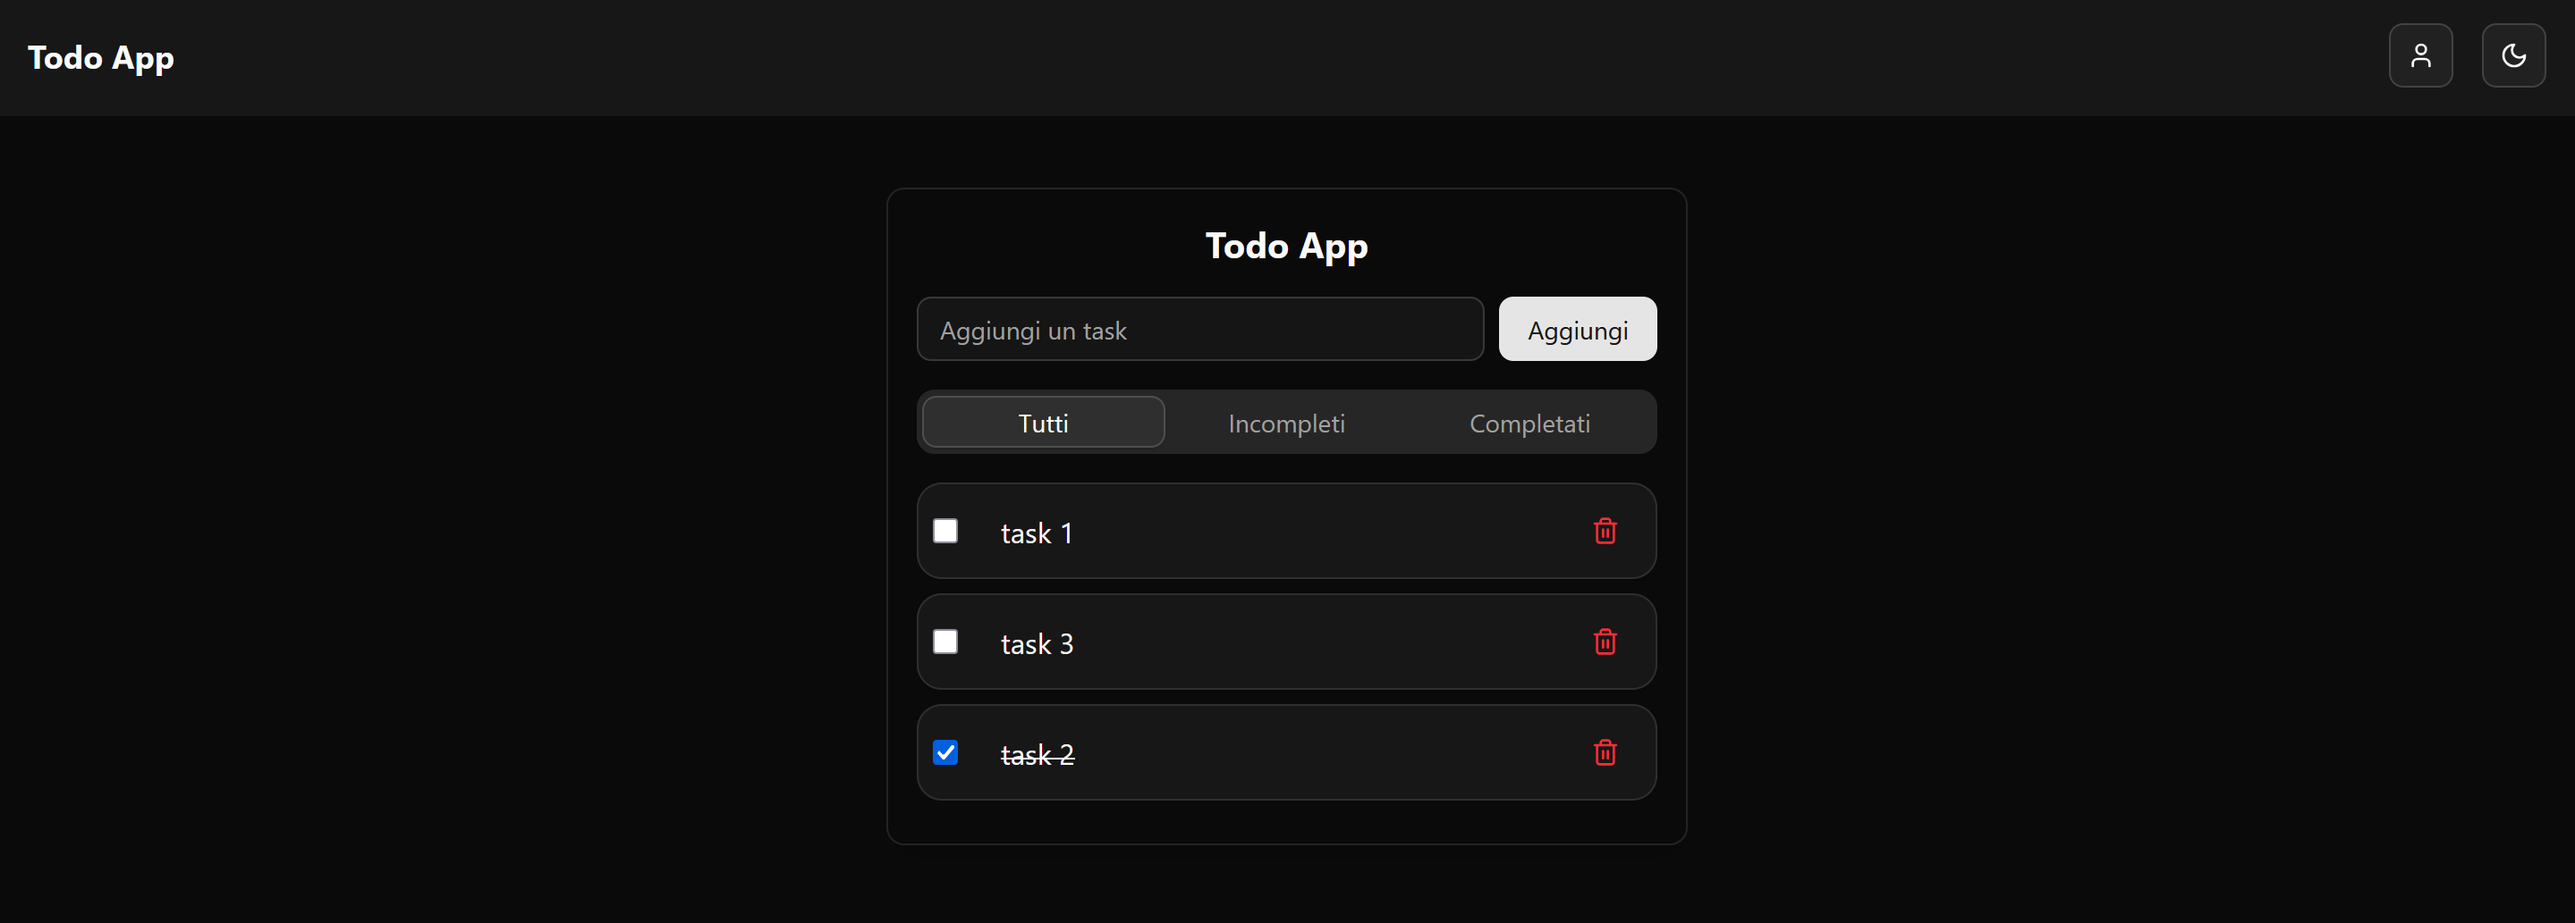
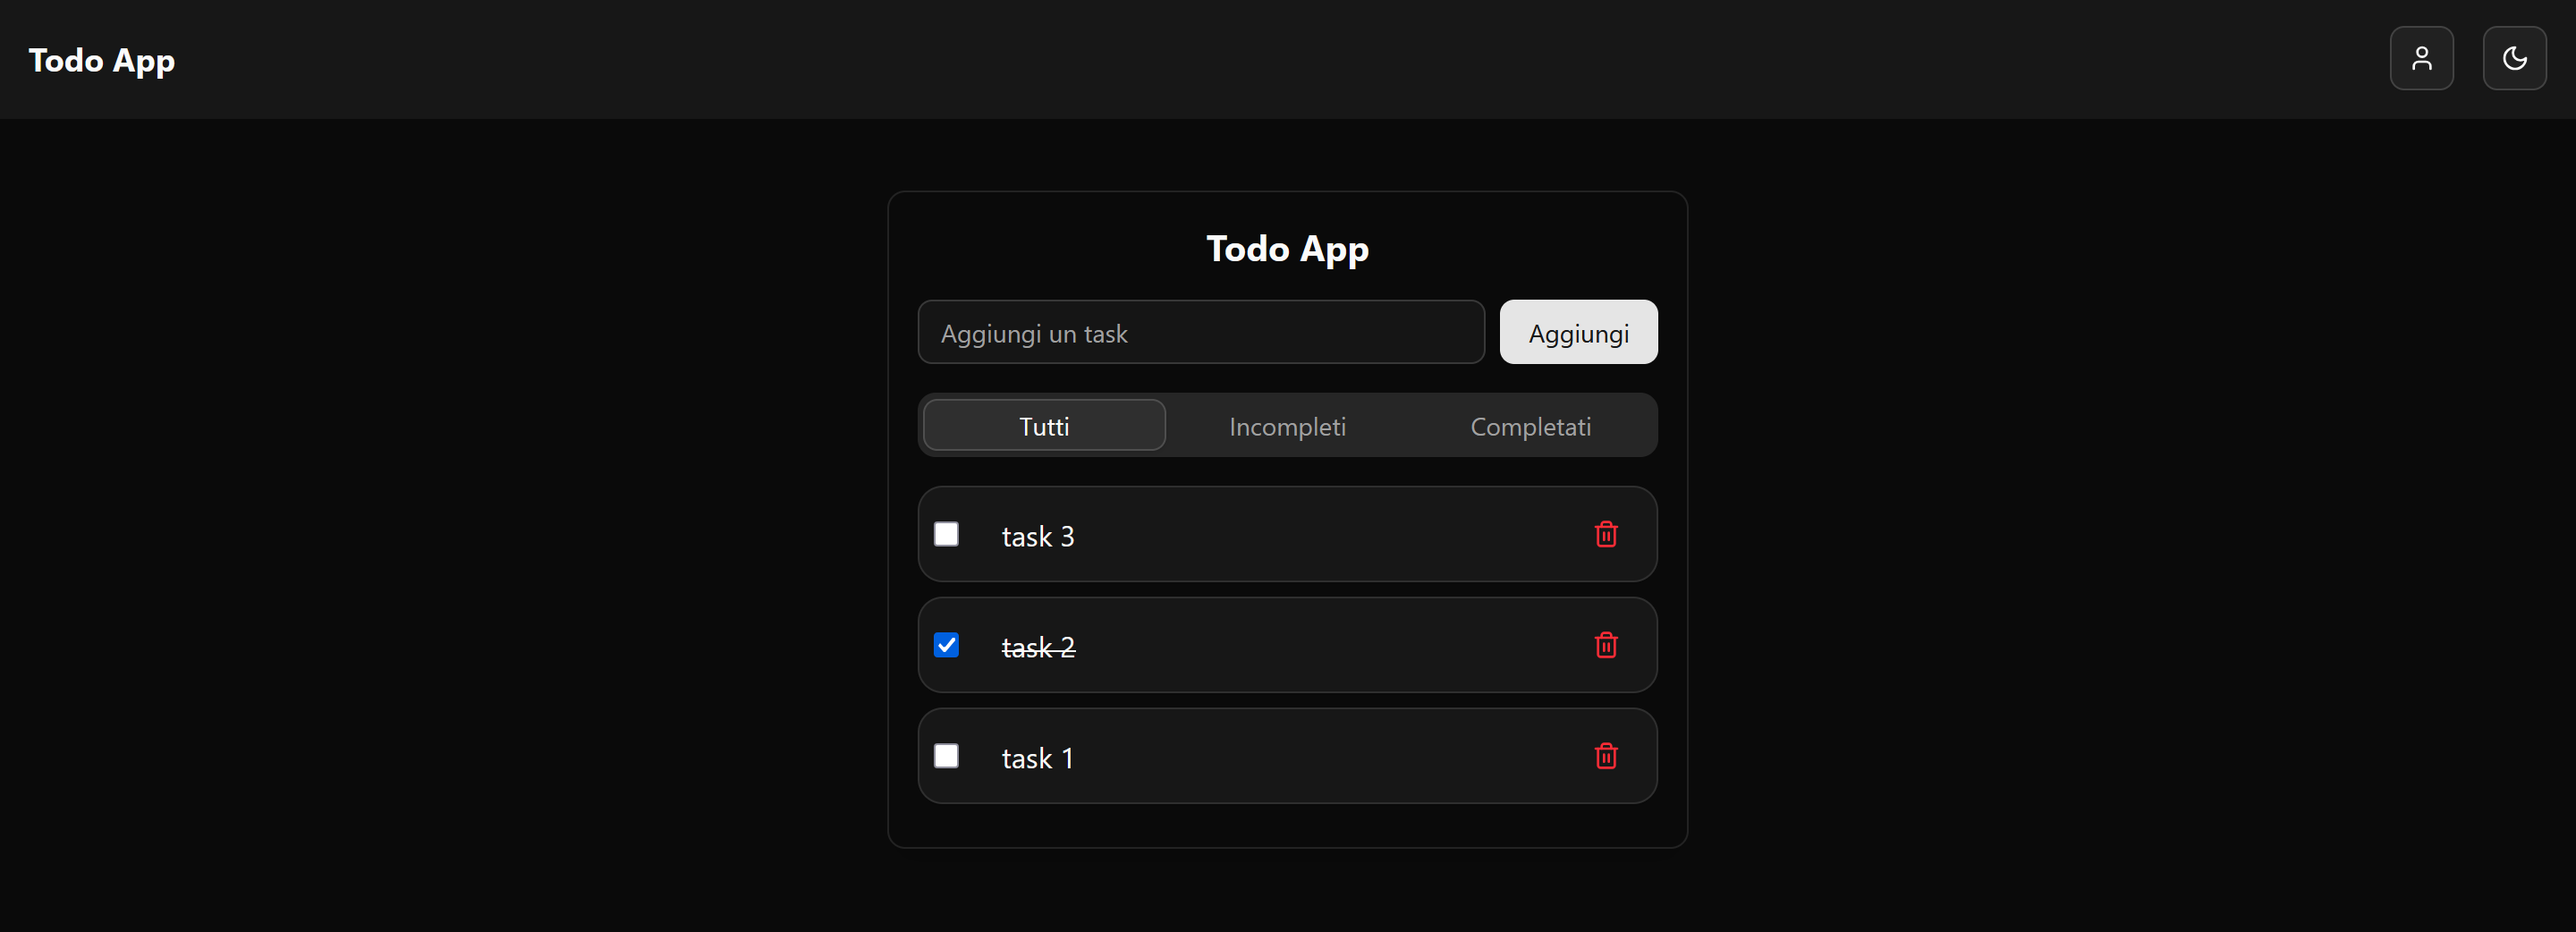
Readme

diff --git a/src/App.jsx b/src/App.jsx
@@ -32,7 +32,8 @@ function TodoApp() {
       const { data: tasks, error } = await supabase
         .from("TodoList")
         .select("*")
-        .eq("user_id", user.id);
+        .eq("user_id", user.id)
+        .order("created_at", { ascending: false });
 
       if (error) {
         console.error("Errore nel recupero dei task:", error);
